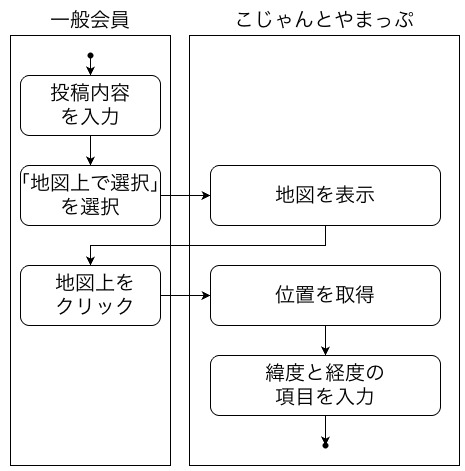
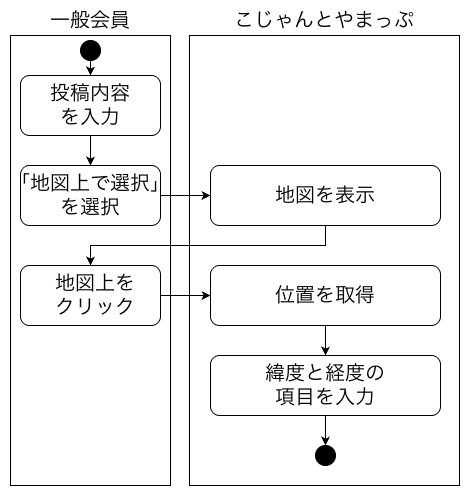
docs : ピン投稿機能に投稿数によってピンの大きさが変わる機能の説明の追加
以下の点について一般会員と事業者会員それぞれの解説を変更しました．
- 開始と終了の点を20x20の円の黒の塗りつぶしの図形に変更
- あるピンに対して投稿を追加する機能として「投稿追加機能」を追加
　- この機能はピンに対して投稿を追加でき，その場所の投稿数が50以上ならばピンが大きくなる
- 機能の一覧に投稿追加機能の項を追加

diff --git a/sections/section3_pinpost.tex b/sections/section3_pinpost.tex
@@ -5,6 +5,7 @@
     \item 記述・写真情報投稿機能
     \item 時間情報登録機能
     \item ジャンル登録機能
+    \item 投稿追加機能
 \end{itemize}
 
 \subsubsection{場所情報投稿機能}
@@ -16,7 +17,7 @@
 
 投稿を取りやめるときの構成を図\ref{fig:pinpost_gen1_2}に示す．投稿画面が表示された後に「キャンセル」を選択すると閲覧画面に遷移する．
 
-位置情報の入力は地図上で選択または，事業者名検索により行う．位置情報を地図上で選択して入力するときの構成を図\ref{fig:pinpost_gen1_3}に示す．「地図上で選択」を選択して，地図を表示し，一般会員が地図上をクリックすることでその位置を取得して緯度と経度の項目を入力する．位置情報を事業者名検索で入力するときの構成を図\ref{fig:pinpost_gen1_4}に示す．一般会員は事業者名検索の項目に事業者名を入力する．データベースにアクセスして，入力した事業者名が存在するかを調べて存在しないならば，「この事業者名は存在しません」というように再度入力をするようにメッセージを表示する．存在するならば，緯度と経度の項目を入力する．
+図\ref{fig:pinpost_gen1_1}の一般会員の「投稿内容を入力」の項目について，ピンを表示する位置を入力しなければならない．位置情報の入力は地図上で選択または，事業者名検索により行う．位置情報を地図上で選択して入力するときの構成を図\ref{fig:pinpost_gen1_3}に示す．「地図上で選択」を選択して，地図を表示し，一般会員が地図上をクリックすることでその位置を取得して緯度と経度の項目を入力する．位置情報を事業者名検索で入力するときの構成を図\ref{fig:pinpost_gen1_4}に示す．一般会員は事業者名検索の項目に事業者名を入力する．データベースにアクセスして，入力した事業者名が存在するかを調べて存在しないならば，「この事業者名は存在しません」というように再度入力をするようにメッセージを表示する．存在するならば，緯度と経度の項目を入力する．
 
 \begin{figure}[H]
     \centering
@@ -80,4 +81,16 @@
     \includegraphics[width=0.5\linewidth]{sections/fig_pinpost_general/pinpost_gen4.jpg}
     \caption{ジャンル登録機能}
     \label{fig:pinpost_gen4}
+\end{figure}
+
+\subsubsection{投稿追加機能}
+一般会員がすでに存在するピンに対して，投稿を追加できる機能である．
+
+一般会員が閲覧画面に表示されているピンを選択すると，そのピンに投稿されている内容が表示される．「投稿を追加」を選択すると投稿画面が表示される．投稿内容を入力して，「投稿する」を選択すると必須入力であるタイトル，説明，緯度，経度が入力されているかを確認して入力されていない項目があれば，「このフィールドを入力してください」と表示する．投稿する条件を満たしているならば，データベースにアクセスして投稿内容を格納する．その際に，ピンに対する投稿数を1増やす．ピンに対する投稿数が50以上ならばピンの大きさを通常より大きくして表示するようにする．
+
+\begin{figure}[H]
+    \centering
+    \includegraphics[width=0.5\linewidth]{sections/fig_pinpost_general/pinpost_gen5.jpg}
+    \caption{投稿追加機能}
+    \label{fig:pinpost_gen5}
 \end{figure}

diff --git a/sections/section4_pinpost.tex b/sections/section4_pinpost.tex
@@ -5,6 +5,7 @@
     \item 記述・写真情報投稿機能
     \item 時間情報登録機能
     \item ジャンル登録機能
+    \item 投稿追加機能
 \end{itemize}
 
 \subsubsection{場所情報投稿機能}
@@ -16,7 +17,7 @@
 
 投稿を取りやめるときの構成を図\ref{fig:pinpost_bus1_2}に示す．投稿画面が表示された後に「キャンセル」を選択すると閲覧画面に遷移する．
 
-位置情報の入力は地図上で選択または，事業者名検索により行う．位置情報を地図上で選択して入力するときの構成を図\ref{fig:pinpost_bus1_3}に示す．「地図上で選択」を選択して，地図を表示し，事業者会員が地図上をクリックすることでその位置を取得して緯度と経度の項目を入力する．位置情報を事業者名検索で入力するときの構成を図\ref{fig:pinpost_bus1_4}に示す．事業者会員は事業者名検索の項目に事業者名を入力する．データベースにアクセスして，入力した事業者名が存在するかを調べて存在しないならば，「この事業者名は存在しません」というように再度入力をするように表示する．存在するならば，緯度と経度の項目を入力する．
+図\ref{fig:pinpost_bus1_1}の事業者会員の「投稿内容を入力」の項目について，ピンを表示する位置を入力しなければならない．位置情報の入力は地図上で選択または，事業者名検索により行う．位置情報を地図上で選択して入力するときの構成を図\ref{fig:pinpost_bus1_3}に示す．「地図上で選択」を選択して，地図を表示し，事業者会員が地図上をクリックすることでその位置を取得して緯度と経度の項目を入力する．位置情報を事業者名検索で入力するときの構成を図\ref{fig:pinpost_bus1_4}に示す．事業者会員は事業者名検索の項目に事業者名を入力する．データベースにアクセスして，入力した事業者名が存在するかを調べて存在しないならば，「この事業者名は存在しません」というように再度入力をするように表示する．存在するならば，緯度と経度の項目を入力する．
 
 \begin{figure}[H]
     \centering
@@ -80,4 +81,16 @@
     \includegraphics[width=0.5\linewidth]{sections/fig_pinpost_business/pinpost_bus4.jpg}
     \caption{ジャンル登録機能}
     \label{fig:pinpost_bus4}
+\end{figure}
+
+\subsubsection{投稿追加機能}
+事業者会員がすでに存在するピンに対して，投稿を追加できる機能である．
+
+事業者会員が閲覧画面に表示されているピンを選択すると，そのピンに投稿されている内容が表示される．「投稿を追加」を選択すると投稿画面が表示される．投稿内容を入力して，「投稿する」を選択すると必須入力であるタイトル，説明，緯度，経度が入力されているかを確認して入力されていない項目があれば，「このフィールドを入力してください」と表示する．投稿する条件を満たしているならば，データベースにアクセスして投稿内容を格納する．その際に，ピンに対する投稿数を1増やす．ピンに対する投稿数が50以上ならばピンの大きさを通常より大きくして表示するようにする．
+
+\begin{figure}[H]
+    \centering
+    \includegraphics[width=0.5\linewidth]{sections/fig_pinpost_business/pinpost_bus5.jpg}
+    \caption{投稿追加機能}
+    \label{fig:pinpost_bus5}
 \end{figure}
